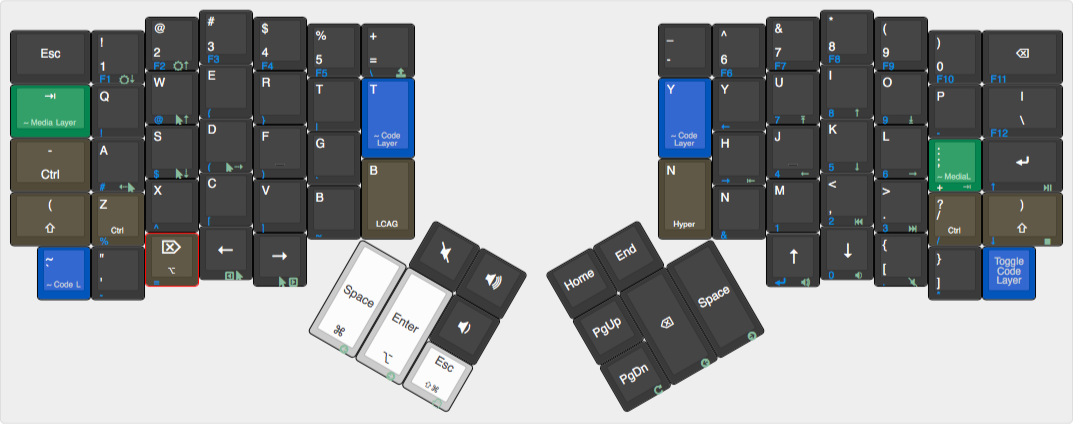
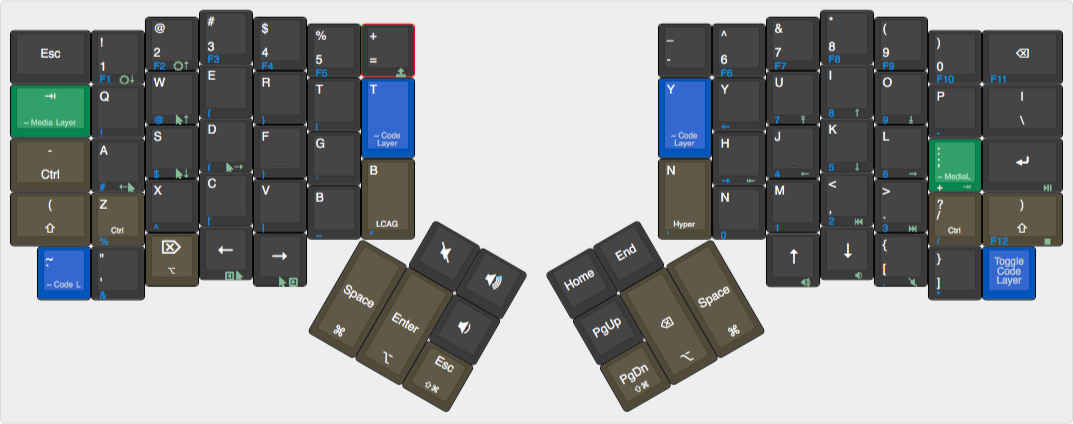
Last round of tweaks to keymap

diff --git a/keyboards/ergodox/keymaps/dougmarcey_osx/keymap.c b/keyboards/ergodox/keymaps/dougmarcey_osx/keymap.c
@@ -13,29 +13,29 @@ const uint16_t PROGMEM keymaps[][MATRIX_ROWS][MATRIX_COLS] = {
 /* Keymap 0: Basic layer
  *
  * ,--------------------------------------------------.           ,--------------------------------------------------.
- * | Esc    |   1  |   2  |   3  |   4  |   5  |   =  |           |   -  |   6  |   7  |   8  |   9  |   0  | Bksp   |
+ * | Esc    |   1  |   2  |   3  |   4  |   5  |   -  |           |   =  |   6  |   7  |   8  |   9  |   0  | Bksp   |
  * |--------+------+------+------+------+-------------|           |------+------+------+------+------+------+--------|
  * | Tab/~L2|   Q  |   W  |   E  |   R  |   T  |  T/  |           |  Y/  |   Y  |   U  |   I  |   O  |   P  |   \    |
  * |--------+------+------+------+------+------|  ~L1 |           |  ~L1 |------+------+------+------+------+--------|
  * | -/Ctrl |   A  |   S  |   D  |   F  |   G  |------|           |------|   H  |   J  |   K  |   L  | ;/~L2| Enter  |
  * |--------+------+------+------+------+------| B/   |           |  N/  |------+------+------+------+------+--------|
- * |(/LShift|Z/Ctrl|   X  |   C  |   V  |   B  |LCAG  |           | HYPR |   N  |   M  |   ,  |   .  |//Ctrl|)/RShift|
+ * |(/LShift|Z/Ctrl|   X  |   C  |   V  |   B  | LCAG |           | HYPR |   N  |   M  |   ,  |   .  |//Ctrl|)/RShift|
  * `--------+------+------+------+------+-------------'           `-------------+------+------+------+------+--------'
  *   |Grv/L1|  '"  |Dl/Alt| Left | Right|                                       |  Up  | Down |   [  |   ]  |  L1  |
  *   `----------------------------------'                                       `----------------------------------'
  *                                        ,-------------.       ,-------------.
  *                                        | Mute | VlUp |       | Home | End  |
  *                                 ,------|------|------|       |------+------+------.
- *                                 | Spc/ | Entr/| VlDn |       | PgUp |      |      |
- *                                 | LGui | Alt  |------|       |------| Bksp | Spce |
- *                                 |      |      |ESC/GS|       | PgDn |      |      |
+ *                                 | Spc/ | Entr/| VlDn |       | PgUp | Bksp/| Spce/|
+ *                                 | LGui | Alt  |------|       |------| Alt  | LGui |
+ *                                 |      |      |ESC/GS|       |PgD/GS|      |      |
  *                                 `--------------------'       `--------------------'
  */
 // If it accepts an argument (i.e, is a function), it doesn't need KC_.
 // Otherwise, it needs KC_*
 [BASE] = KEYMAP(  // layer 0 : default
         // left hand
-        KC_ESC,         KC_1,         KC_2,   KC_3,   KC_4,   KC_5,   KC_EQL,
+        KC_ESC,         KC_1,         KC_2,   KC_3,   KC_4,   KC_5,   KC_MINS,
         LT(MDIA,KC_TAB),KC_Q,         KC_W,   KC_E,   KC_R,   KC_T,   LT(SYMB, KC_T),
         CTL_T(KC_MINS), KC_A,         KC_S,   KC_D,   KC_F,   KC_G,
         KC_LSPO,        CTL_T(KC_Z),  KC_X,   KC_C,   KC_V,   KC_B,   LCAG_T(KC_B),
@@ -44,27 +44,27 @@ const uint16_t PROGMEM keymaps[][MATRIX_ROWS][MATRIX_COLS] = {
                                                                                  KC_VOLD,
                                                     GUI_T(KC_SPC),ALT_T(KC_ENT), MT((MOD_LGUI|MOD_LSFT),KC_ESC),
         // right hand
-             KC_MINS,      KC_6,   KC_7,   KC_8,   KC_9,   KC_0,             KC_BSPC,
+             KC_EQL,      KC_6,   KC_7,   KC_8,   KC_9,   KC_0,             KC_BSPC,
              LT(SYMB,KC_Y),KC_Y,   KC_U,   KC_I,   KC_O,   KC_P,             KC_BSLS,
                            KC_H,   KC_J,   KC_K,   KC_L,   LT(MDIA, KC_SCLN),KC_ENT,
              ALL_T(KC_N),  KC_N,   KC_M,   KC_COMM,KC_DOT, CTL_T(KC_SLSH),   KC_RSPC,
                                    KC_UP,  KC_DOWN,KC_LBRC,KC_RBRC,          TG(SYMB),
              KC_HOME, KC_END,
              KC_PGUP,
-             KC_PGDN, KC_BSPC, KC_SPC
+             MT((MOD_LGUI|MOD_LSFT),KC_PGDN), ALT_T(KC_BSPC), GUI_T(KC_SPC)
     ),
 /* Keymap 1: Symbol Layer
  *
  * ,--------------------------------------------------.           ,--------------------------------------------------.
- * |        |  F1  |  F2  |  F3  |  F4  |  F5  |   \  |           |      |  F6  |  F7  |  F8  |  F9  |  F10 |   F11  |
+ * |        |  F1  |  F2  |  F3  |  F4  |  F5  |      |           |      |  F6  |  F7  |  F8  |  F9  |  F10 |   F11  |
  * |--------+------+------+------+------+-------------|           |------+------+------+------+------+------+--------|
- * |        |   !  |   @  |   {  |   }  |   |  |      |           |      | Left |   7  |   8  |   9  |   -  |   F12  |
+ * |        |   !  |   @  |   {  |   }  |   |  |      |           |      | Left |   7  |   8  |   9  |   -  |        |
  * |--------+------+------+------+------+------|      |           |      |------+------+------+------+------+--------|
- * |        |   #  |   $  |   (  |   )  |   `  |------|           |------| Right|   4  |   5  |   6  |   +  |   Up   |
- * |--------+------+------+------+------+------|      |           |      |------+------+------+------+------+--------|
- * |        |   %  |   ^  |   [  |   ]  |   ~  |      |           |      |   &  |   1  |   2  |   3  |   /  |   Dwn  |
+ * |        |   #  |   $  |   (  |   )  |   `  |------|           |------| Right|   4  |   5  |   6  |   +  |        |
+ * |--------+------+------+------+------+------|  "/  |           |  '/  |------+------+------+------+------+--------|
+ * |        |   %  |   ^  |   [  |   ]  |   ~  | LCAG |           | HYPR |   0  |   1  |   2  |   3  |   /  |   F12  |
  * `--------+------+------+------+------+-------------'           `-------------+------+------+------+------+--------'
- *   |      |   -  |   =  |      |      |                                       | Entr |   0  |   .  |   *  |      |
+ *   |      |   &  |      |      |      |                                       |      |      |   .  |   *  |      |
  *   `----------------------------------'                                       `----------------------------------'
  *                                        ,-------------.       ,-------------.
  *                                        |      |      |       |      |      |
@@ -77,20 +77,20 @@ const uint16_t PROGMEM keymaps[][MATRIX_ROWS][MATRIX_COLS] = {
 // SYMBOLS
 [SYMB] = KEYMAP(
        // left hand
-       KC_TRNS,KC_F1,  KC_F2,  KC_F3,  KC_F4,  KC_F5,  KC_BSLS,
+       KC_TRNS,KC_F1,  KC_F2,  KC_F3,  KC_F4,  KC_F5,  KC_TRNS,
        KC_TRNS,KC_EXLM,KC_AT,  KC_LCBR,KC_RCBR,KC_PIPE,KC_TRNS,
        KC_TRNS,KC_HASH,KC_DLR, KC_LPRN,KC_RPRN,KC_GRV,
-       KC_TRNS,KC_PERC,KC_CIRC,KC_LBRC,KC_RBRC,KC_TILD,KC_TRNS,
-       KC_TRNS,KC_MINS,KC_EQL ,KC_TRNS,KC_TRNS,
+       KC_TRNS,KC_PERC,KC_CIRC,KC_LBRC,KC_RBRC,KC_TILD,LCAG_T(KC_DQUO),
+       KC_TRNS,KC_AMPR,KC_TRNS ,KC_TRNS,KC_TRNS,
                                        KC_TRNS,KC_TRNS,
                                                KC_TRNS,
                                KC_TRNS,KC_TRNS,KC_TRNS,
        // right hand
        KC_TRNS, KC_F6,   KC_F7,  KC_F8,   KC_F9,   KC_F10,  KC_F11,
-       KC_TRNS, KC_LEFT, KC_7,   KC_8,    KC_9,    KC_PMNS, KC_F12,
-                KC_RIGHT,KC_4,   KC_5,    KC_6,    KC_PPLS, KC_UP,
-       KC_TRNS, KC_AMPR, KC_1,   KC_2,    KC_3,    KC_PSLS, KC_DOWN,
-                         KC_ENT, KC_0,    KC_DOT,  KC_PAST, KC_TRNS,
+       KC_TRNS, KC_LEFT, KC_7,   KC_8,    KC_9,    KC_PMNS, KC_TRNS,
+                KC_RIGHT,KC_4,   KC_5,    KC_6,    KC_PPLS, KC_TRNS, 
+ALL_T(KC_QUOT), KC_0,    KC_1,   KC_2,    KC_3,    KC_PSLS, KC_F12,
+                         KC_TRNS,KC_TRNS, KC_DOT,  KC_PAST, KC_TRNS,
        KC_TRNS, KC_TRNS,
        KC_TRNS,
        KC_TRNS, KC_TRNS, KC_TRNS
@@ -100,9 +100,9 @@ const uint16_t PROGMEM keymaps[][MATRIX_ROWS][MATRIX_COLS] = {
  * ,--------------------------------------------------.           ,--------------------------------------------------.
  * |        | BrDn | BrUp |      |      |      | Tnsy |           |      |      |      |      |      |      |        |
  * |--------+------+------+------+------+-------------|           |------+------+------+------+------+------+--------|
- * |        |      | MsUp |      |      |      |      |           |      |      | PgUp |  Up  | PgDn |      |        |
+ * |        |      | MsUp |      |      |      |      |           |      |      |      |  Up  |      |      |        |
  * |--------+------+------+------+------+------|      |           |      |------+------+------+------+------+--------|
- * |        |MsLeft|MsDown|MsRght|      |      |------|           |------| Home |  Lft |  Dn  |  Rt  | End  |  Play  |
+ * |        |MsLeft|MsDown|MsRght|      |      |------|           |------|      |  Lft |  Dn  |  Rt  |      |  Play  |
  * |--------+------+------+------+------+------|      |           |      |------+------+------+------+------+--------|
  * |        |      |      |      |      |      |      |           |      |      |      | Prev | Next |      |  Stop  |
  * `--------+------+------+------+------+-------------'           `-------------+------+------+------+------+--------'
@@ -111,9 +111,9 @@ const uint16_t PROGMEM keymaps[][MATRIX_ROWS][MATRIX_COLS] = {
  *                                        ,-------------.       ,-------------.
  *                                        |      |      |       |      |      |
  *                                 ,------|------|------|       |------+------+------.
- *                                 |Brwsr |Brwsr |      |       |      |Brwsr |Brwsr |
- *                                 |Back  |Forw  |------|       |------|Back  |Forw  |
- *                                 |      |      | BStop|       | BRefr|      |      |
+ *                                 |      |      |      |       |      |      |      |
+ *                                 |      |      |------|       |------|      |      |
+ *                                 |      |      |      |       |      |      |      |
  *                                 `--------------------'       `--------------------'
  */
 // MEDIA AND MOUSE
@@ -125,16 +125,16 @@ const uint16_t PROGMEM keymaps[][MATRIX_ROWS][MATRIX_COLS] = {
        KC_TRNS, KC_TRNS, KC_TRNS, KC_BTN1, KC_BTN2,
                                            KC_TRNS, KC_TRNS,
                                                     KC_TRNS,
-                                  KC_WBAK, KC_WFWD, KC_WSTP,
+                                  KC_TRNS, KC_TRNS, KC_TRNS,
     // right hand
        KC_TRNS,  KC_TRNS, KC_TRNS, KC_TRNS, KC_TRNS, KC_TRNS, KC_TRNS,
-       KC_TRNS,  KC_TRNS, KC_PGDN, KC_UP,   KC_PGUP, KC_TRNS, KC_TRNS,
-                 KC_HOME, KC_LEFT, KC_DOWN, KC_RIGHT,KC_END,  KC_MPLY,
+       KC_TRNS,  KC_TRNS, KC_TRNS, KC_UP,   KC_TRNS, KC_TRNS, KC_TRNS,
+                 KC_TRNS, KC_LEFT, KC_DOWN, KC_RIGHT,KC_TRNS, KC_MPLY,
        KC_TRNS,  KC_TRNS, KC_TRNS, KC_MPRV, KC_MNXT, KC_TRNS, KC_MSTP,
                           KC_VOLU, KC_VOLD, KC_MUTE, KC_TRNS, KC_TRNS,
        KC_TRNS, KC_TRNS,
        KC_TRNS,
-       KC_WREF, KC_WBAK, KC_WFWD
+       KC_TRNS, KC_TRNS, KC_TRNS
 ),
 };
 

diff --git a/keyboards/ergodox/keymaps/dougmarcey_osx/readme.md b/keyboards/ergodox/keymaps/dougmarcey_osx/readme.md
@@ -1,8 +1,23 @@
-# The OSX Friendly Version of the Default Firmware
+# The OSX Friendly Firmware by Doug Marcey
 
-So, I took the default firmware and just made a couple of tweaks that make it easier to use with OS X:
+Based on the default OSX layout, I made a number of tweaks. The main goal is to get the ergonomic benefits of having the ergodox
+but also make it easier to switch back to "normal keyboards" (like using my laptop). I stuck with the locations of the printed keys
+on my ergodox-ez, but made a number of tweaks to make it easier to use a command line and such. Here is an (hopefully complete)
+list of changes.
 
-1. The Cmd key is now on the right side, making Cmd+Space easier.
-2. The media keys work on OSX (But not on Windows).
+1. Esc, Tab, Enter, Rshift, Backspace, and Space are closer to where they are on a normal QWERTY keyboard
+2. Space Cadet Shift. Left shift generates a ( and right a ) when tapped. Still shift when held
+3. Ctrl is on left where is should be for anyone that uses it often. Tapping it will give you a -, useful for command line args.
+4. Tab will give you the media layer when held, so there is a media key on both sides
+5. Central keys designed to give easy access to mods (GUI, ALT) and Space is on both sides
+6. Hyper is there but swapped, instead of MEH there is an LCAG(Ctrl-Alt-GUI), I use this for globals because it's easier to hit on 
+    my laptop keyboard for globals.
+7. Enter, Esc, Backspace, Volume Control, and PgDn/PgUp/Home/End are in the center with Space
+8. GUI+Shift in the center rather than ALT+Shift
+9. Moved = and - keys up
+10. Added T, Y, B, and N to center tall keys as taps since I still tend to overshoot those, and this makes life less hard
+11. Lots of ways to shift to code layer, one toggle 
+12. Code layer has full numpad with enter key, and a few more symbols added. 
+13. Media layer has added arrow keys (JKIL), a teensy key, mac brightness keys, and shift mouse keys to ASWD
 
-![default osx](default_osx_highres.png)
+![dougmarcey_osx](keymap.png)
